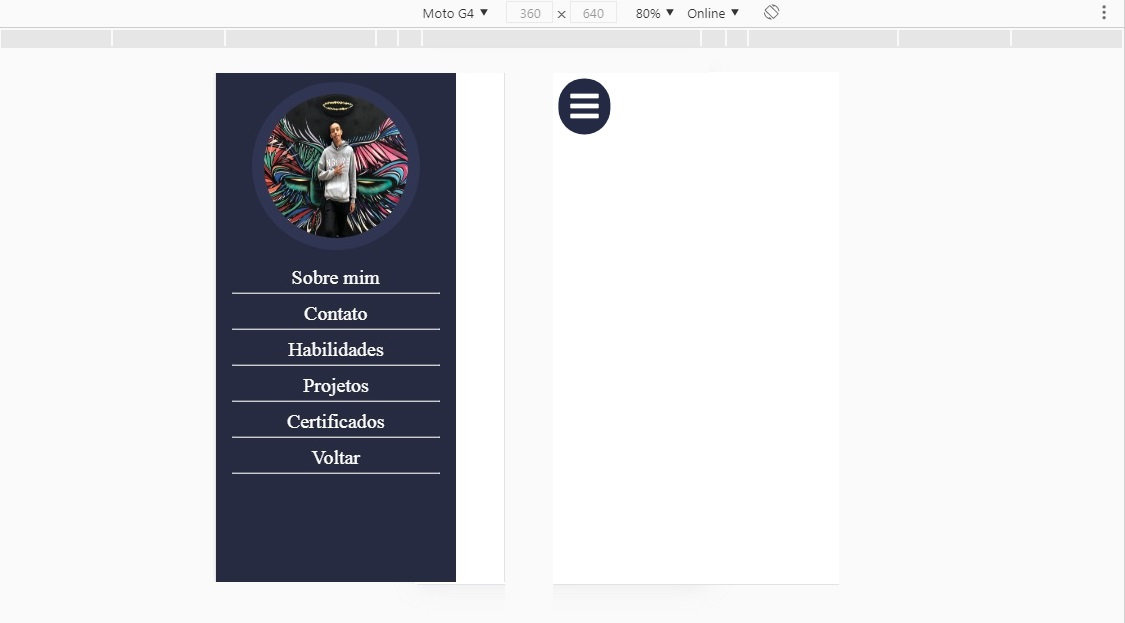
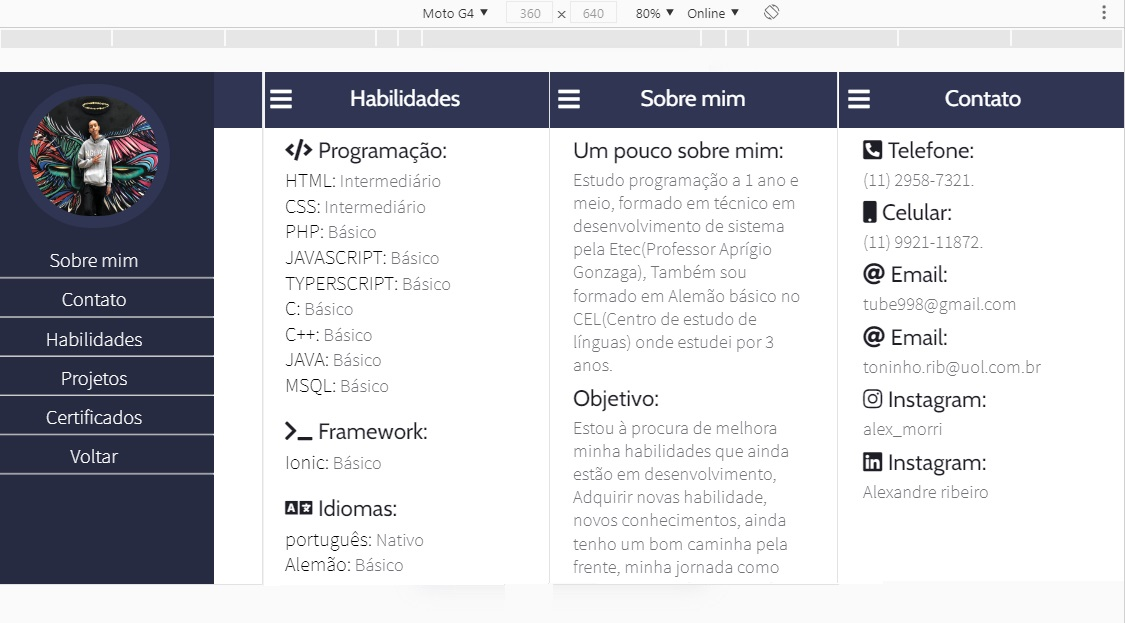
v.2.1
partes sobre mim, contato e habilidades

diff --git a/home.html b/home.html
@@ -5,20 +5,96 @@
     <meta name="viewport" content="width=device-width, initial-scale=1.0">
     <title>Portfólio Alexandre Moreira Ribeiro</title>
 
-    <link rel="stylesheet" href="/css/home.css">
+    <link rel="stylesheet" href="/css/menu.css">
+    <link rel="stylesheet" href="/css/sobreMim.css">
+    <link rel="stylesheet" href="/css/contato.css">
+    <link rel="stylesheet" href="/css/habilidades.css">
+    <link href="https://fonts.googleapis.com/css2?family=Cabin&family=Source+Sans+Pro:wght@300&display=swap" rel="stylesheet">
     <script src="https://kit.fontawesome.com/a076d05399.js"></script>
 </head>
 <body>
-    <div class="btnIcon" id="btnIcon">
-        <i class="fas fa-bars"></i>
+
+    <div class="SobreMim" id="SobreMim">
+        <div class="container">
+            <div class="box">
+                <div class="SMCont">
+                    <h2>Um pouco sobre mim: <p>Estudo programação a 1 ano e meio, formado em técnico em desenvolvimento de sistema pela Etec(Professor Aprígio Gonzaga), Também sou formado em Alemão básico no CEL(Centro de estudo de línguas) onde estudei por 3 anos.</p></h2>
+                    <h2>Objetivo: <p>Estou à procura de melhora minha habilidades que ainda estão em desenvolvimento, Adquirir novas habilidade, novos conhecimentos, ainda tenho um bom caminha pela frente, minha jornada como programador só esta no início, e no futuro proximo poderei fala que sou um verdadeiro programador, um excelente programador.</p></h2>
+                </div>
+            </div>
+        </div>
+    </div>
+    <div class="Contato" id="Contato">
+        <div class="container">
+            <div class="box">
+                <div class="CCont">
+                    <h2><i class="fas fa-phone-square-alt"></i> Telefone: <p>(11) 2958-7321.</p></h2>
+                    <h2><i class="fas fa-mobile"></i> Celular: <p>(11) 9921-11872.</p></h2>
+                    <h2><i class="fas fa-at"></i> Email: <p>tube998@gmail.com</p></h2>
+                    <h2><i class="fas fa-at"></i> Email: <p>toninho.rib@uol.com.br</p></h2>
+                    <h2><i class="fab fa-instagram"></i> Instagram: <p>alex_morri</p></h2>
+                    <h2><i class="fab fa-linkedin"></i> Instagram: <p>Alexandre ribeiro</p></h2>
+                </div>
+            </div>
+        </div>
+    </div>
+    <div class="Habilidades" id="Habilidades">
+        <div class="container">
+            <div class="box">
+                <div class="HCont">
+                    <h2>
+                        <i class="fas fa-code"></i> Programação: 
+                        <p>
+                            <b>HTML:</b> Intermediário<br>
+                            <b>CSS:</b> Intermediário<br>
+                            <b>PHP:</b> Básico<br>
+                            <b>JAVASCRIPT:</b> Básico<br>
+                            <b>TYPERSCRIPT:</b> Básico<br>
+                            <b>C:</b> Básico<br>
+                            <b>C++:</b> Básico<br>
+                            <b>JAVA:</b> Básico<br>
+                            <b>MSQL:</b> Básico<br>
+                        </p>
+                    </h2>
+                    <h2>
+                        <i class="fas fa-terminal"></i> Framework: 
+                        <p>
+                            <b>Ionic:</b> Básico<br>
+                        </p>
+                    </h2>
+                    <h2>
+                        <i class="fas fa-language"></i> Idiomas: 
+                        <p>
+                            <b>português:</b> Nativo<br>
+                            <b>Alemão:</b> Básico<br>
+                        </p>
+                    </h2>
+                    <h2><i class="fas fa-book"></i> Outros: 
+                        <p>
+                            <b>Word:</b> Básico<br>
+                            <b>Excel:</b> Básico<br>
+                            <b>Lean Six-Sigma:</b> Básico<br>
+                        </p>
+                    </h2>
+                    
+                </div>
+            </div>
+        </div>
+    </div>
+
+    <div class="btnIcon" >
+        <div class="Titulo" id="Titulo">
+            <h2>Sobre mim</h2>
+        </div>
+        <i class="fas fa-bars" id="btnIcon"></i>
     </div>
     <nav class="menu" id="menu">
         <img src="/img/35737162_1766776656745771_4089088399443492864_n.jpg">
         <div class="btnMenu">
             <ul>
-                <li>Sobre mim</li><hr/>
-                <li>Contato</li><hr/>
-                <li>Habilidades</li><hr/>
+                <li id="btnSobreMim">Sobre mim</li><hr/>
+                <li id="btnContato">Contato</li><hr/>
+                <li id="btnHabilidades">Habilidades</li><hr/>
                 <li>Projetos</li><hr/>
                 <li>Certificados</li><hr/>
                 <li id="btnVoltar">Voltar</li><hr/>

diff --git a/js/menu.js b/js/menu.js
@@ -1,10 +1,50 @@
 var btnIcon = document.getElementById('btnIcon')
-var menu = document.getElementById('menu')
 var btnVoltar = document.getElementById('btnVoltar')
+var btnSobreMim = document.getElementById('btnSobreMim')
+var btnContato = document.getElementById('btnContato')
+var btnHabilidades = document.getElementById('btnHabilidades')
 
 btnIcon.onclick = function(){
+    var menu = document.getElementById('menu')
     menu.style.left = '0px'
 }
 btnVoltar.onclick = function(){
+    var menu = document.getElementById('menu')
+    menu.style.left = '-300px'
+}
+btnSobreMim.onclick = function(){
+    var SobreMim = document.getElementById('SobreMim')
+    var Contato = document.getElementById('Contato')
+    var Habilidades = document.getElementById('Habilidades')
+    var menu = document.getElementById('menu')
+    var Titulo = document.getElementById('Titulo')
+    Titulo.innerHTML = '<h2>Sobre mim</h2>'
+    Contato.style.display = 'none'
+    Habilidades.style.display = 'none'
+    SobreMim.style.display = 'inline'
+    menu.style.left = '-300px'
+}
+btnContato.onclick = function(){
+    var SobreMim = document.getElementById('SobreMim')
+    var Contato = document.getElementById('Contato')
+    var Habilidades = document.getElementById('Habilidades')
+    var menu = document.getElementById('menu')
+    var Titulo = document.getElementById('Titulo')
+    Titulo.innerHTML = '<h2>Contato</h2>'
+    Contato.style.display = 'inline'
+    Habilidades.style.display = 'none'
+    SobreMim.style.display = 'none'
+    menu.style.left = '-300px'
+}
+btnHabilidades.onclick = function(){
+    var SobreMim = document.getElementById('SobreMim')
+    var Contato = document.getElementById('Contato')
+    var Habilidades = document.getElementById('Habilidades')
+    var menu = document.getElementById('menu')
+    var Titulo = document.getElementById('Titulo')
+    Titulo.innerHTML = '<h2>Habilidades</h2>'
+    Habilidades.style.display = 'inline'
+    Contato.style.display = 'none'
+    SobreMim.style.display = 'none'
     menu.style.left = '-300px'
 }

diff --git a/css/menu.css b/css/menu.css
@@ -1,0 +1,64 @@
+*{margin: 0; padding: 0; font-size: 100%;  outline: none; font-weight: 300; box-sizing: border-box;font-family: 'Source Sans Pro', sans-serif;}
+a{text-decoration: none;}
+h2{font-family: 'Cabin', sans-serif;}
+ul{list-style: none;}
+img{max-width: 100%;}
+
+.btnIcon{
+    position: fixed;
+    top: 0px;
+    background-color: #2F3553;
+    width: 100%;
+    height: 70px;
+}
+
+.btnIcon i{
+    position: relative;
+    top: -15px;
+    left: 10px;
+    color: white;
+    text-align: center;
+    font-size: 30px;
+    width: 30px;
+    height: 30px;
+}
+.menu{
+    position: fixed;
+    top: 0px;
+    left: -300px;
+    width: 300px;
+    height:100% ;
+    background-color: #272B41;
+    text-align: center;
+    transition: left 0.8s;
+}
+.menu img{
+    border-radius: 200px;
+    padding: 15px;
+    background-color: #2F3553;
+    margin-top: 15px;
+    width: 190px;
+    height: 180px;
+}
+.btnMenu{
+    position: relative;
+    top: 10px;
+    right: 0px;
+}
+.btnMenu li{
+    cursor: pointer;
+    font-size: 25px;
+    margin-top: 10px;
+    color: white;
+}
+.btnMenu hr{
+    margin-top: 5px;
+}
+.Titulo{
+    position: relative;
+    top: 15px;
+    left: 0px;
+    font-size: 28px;
+    text-align: center;
+    color: white;
+}

diff --git a/css/sobreMim.css b/css/sobreMim.css
@@ -1,0 +1,24 @@
+.container{
+
+    display: flex;
+    justify-content: center;
+    align-items: center;
+}
+.box{
+    width: 300px;
+    height: 300px;
+}
+.SMCont{
+    position: relative;
+    top: 80px;
+}
+.SMCont h2{
+    margin-bottom:10px ;
+    color: #1E1E26;
+    font-size: 28px;
+}
+.SMCont p {
+    margin-top: 5px;
+    color: #747478;
+    font-size: 23px;
+}

diff --git a/css/habilidades.css b/css/habilidades.css
@@ -1,0 +1,21 @@
+.Habilidades{
+    display: none;
+}
+.HCont{
+    position: relative;
+    top: 80px;
+}
+.HCont h2{
+    margin-bottom:25px ;
+    color: #1E1E26;
+    font-size: 28px;
+}
+.HCont p {
+    margin-top: 5px;
+    color: #747478;
+    font-size: 23px;
+}
+.HCont b {
+    font-size: 25px;
+    color: #000000;
+}

diff --git a/css/contato.css b/css/contato.css
@@ -1,0 +1,17 @@
+.Contato{
+    display: none;
+}
+.CCont{
+    position: relative;
+    top: 80px;
+}
+.CCont h2{
+    margin-bottom:10px ;
+    color: #1E1E26;
+    font-size: 28px;
+}
+.CCont p {
+    margin-top: 5px;
+    color: #747478;
+    font-size: 23px;
+}
